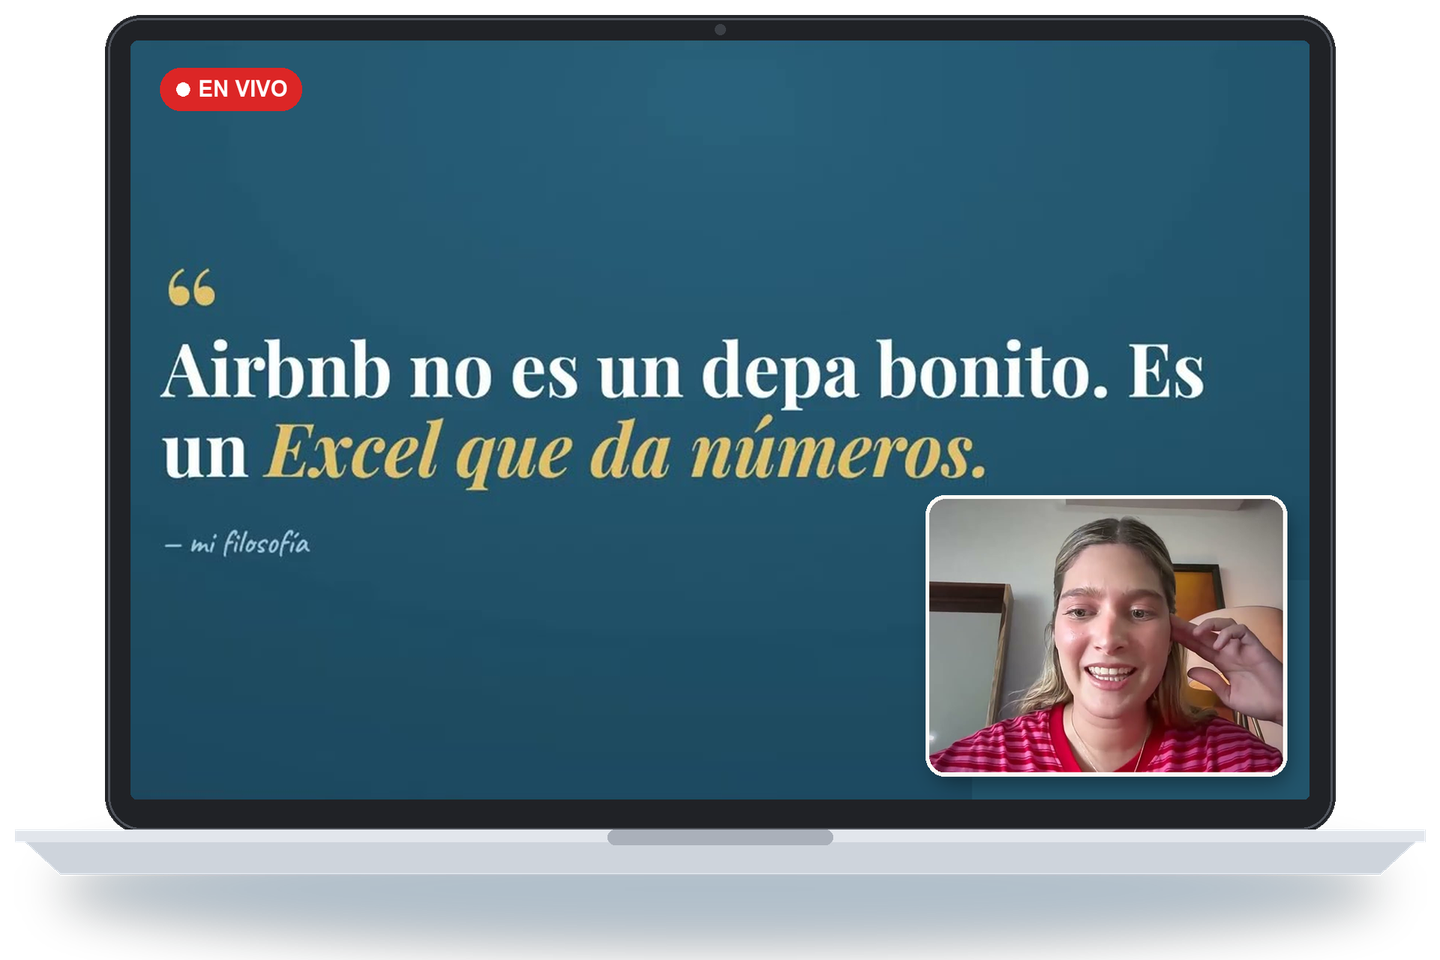
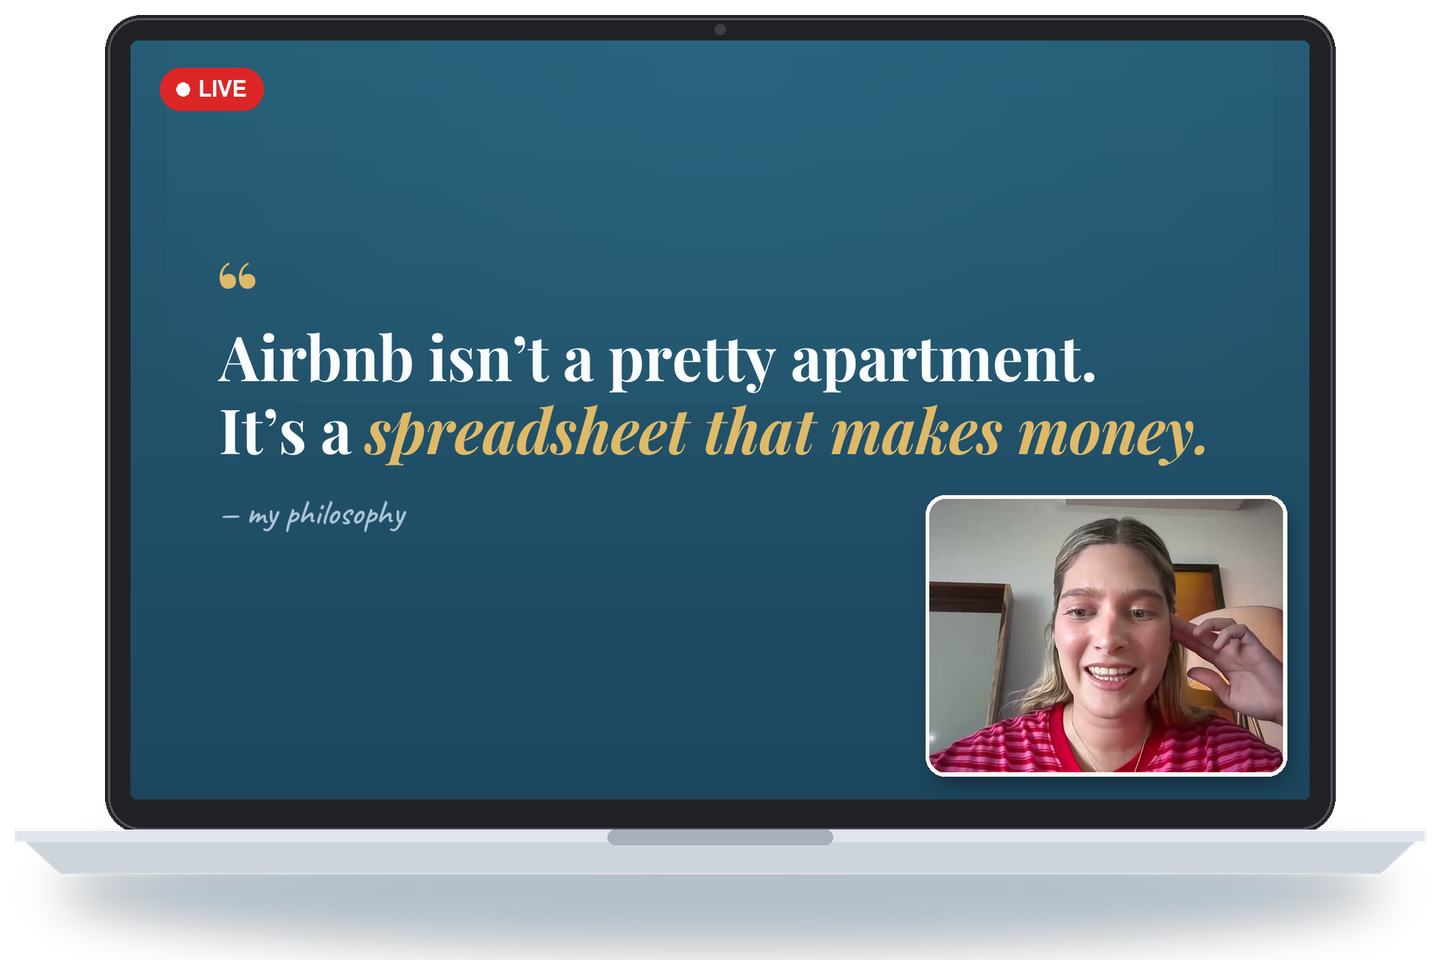
RankBreeze portfolio: English slide in live class mockup

Changed region(s): [[0.0938, 0.2812, 0.8438, 0.5312], [0.125, 0.5312, 0.2812, 0.5938], [0.125, 0.0625, 0.2188, 0.125]]

diff --git a/rankbreeze/index.html b/rankbreeze/index.html
@@ -344,8 +344,8 @@
     </div>
     <div class="proofs">
       <figure class="reveal">
-        <img src="/assets/rankbreeze/live-class-laptop.png" alt="Laptop showing Sofía teaching the live class on camera next to a slide that reads: Airbnb isn't a pretty apartment, it's a spreadsheet that makes money" loading="lazy">
-        <figcaption>The live class: "Airbnb isn't a pretty apartment. It's a spreadsheet that makes money."</figcaption>
+        <img src="/assets/rankbreeze/live-class-laptop.png" alt="Laptop showing Sofía teaching the live class on camera next to a slide that reads: Airbnb isn’t a pretty apartment. It’s a spreadsheet that makes money" loading="lazy">
+        <figcaption>Teaching the live class on camera (slide translated; the class was in Spanish).</figcaption>
       </figure>
       <figure class="reveal">
         <div class="browser"><div class="bar"><i></i><i></i><i></i><span>sofiaretif.com/en-vivo</span></div><img src="/assets/rankbreeze/live-funnel-landing.jpg" alt="The class landing page with an email sign-up form" loading="lazy"></div>
